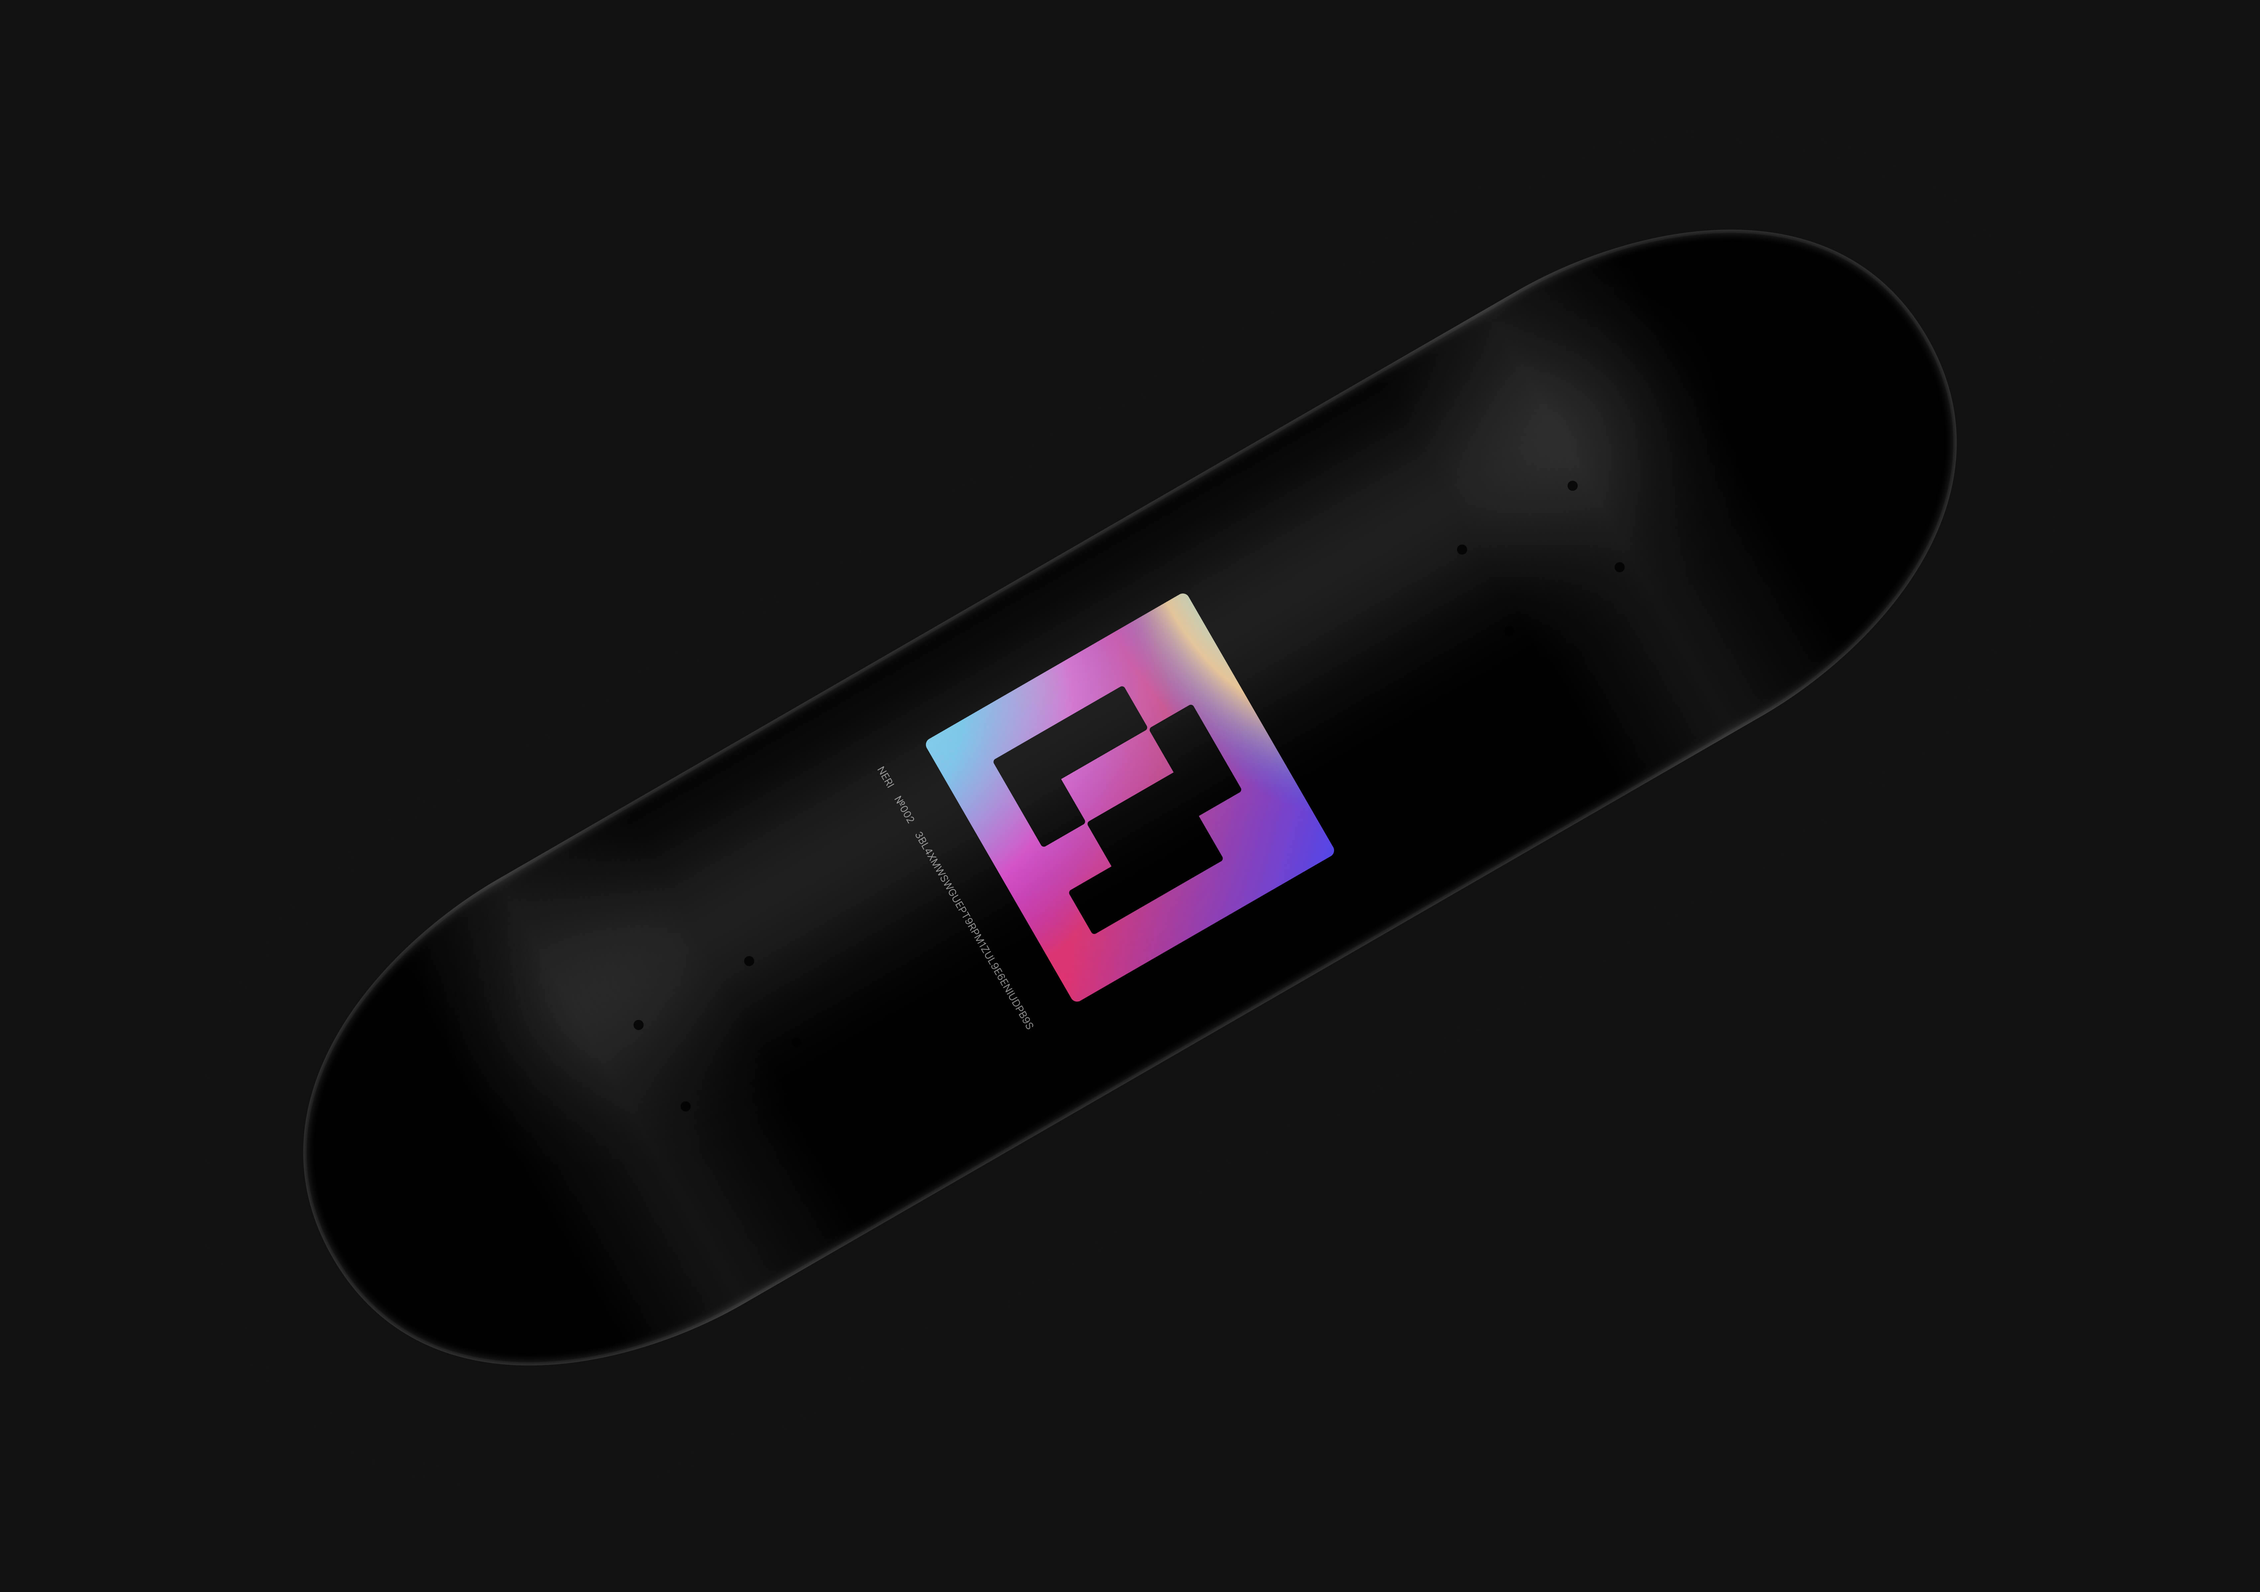
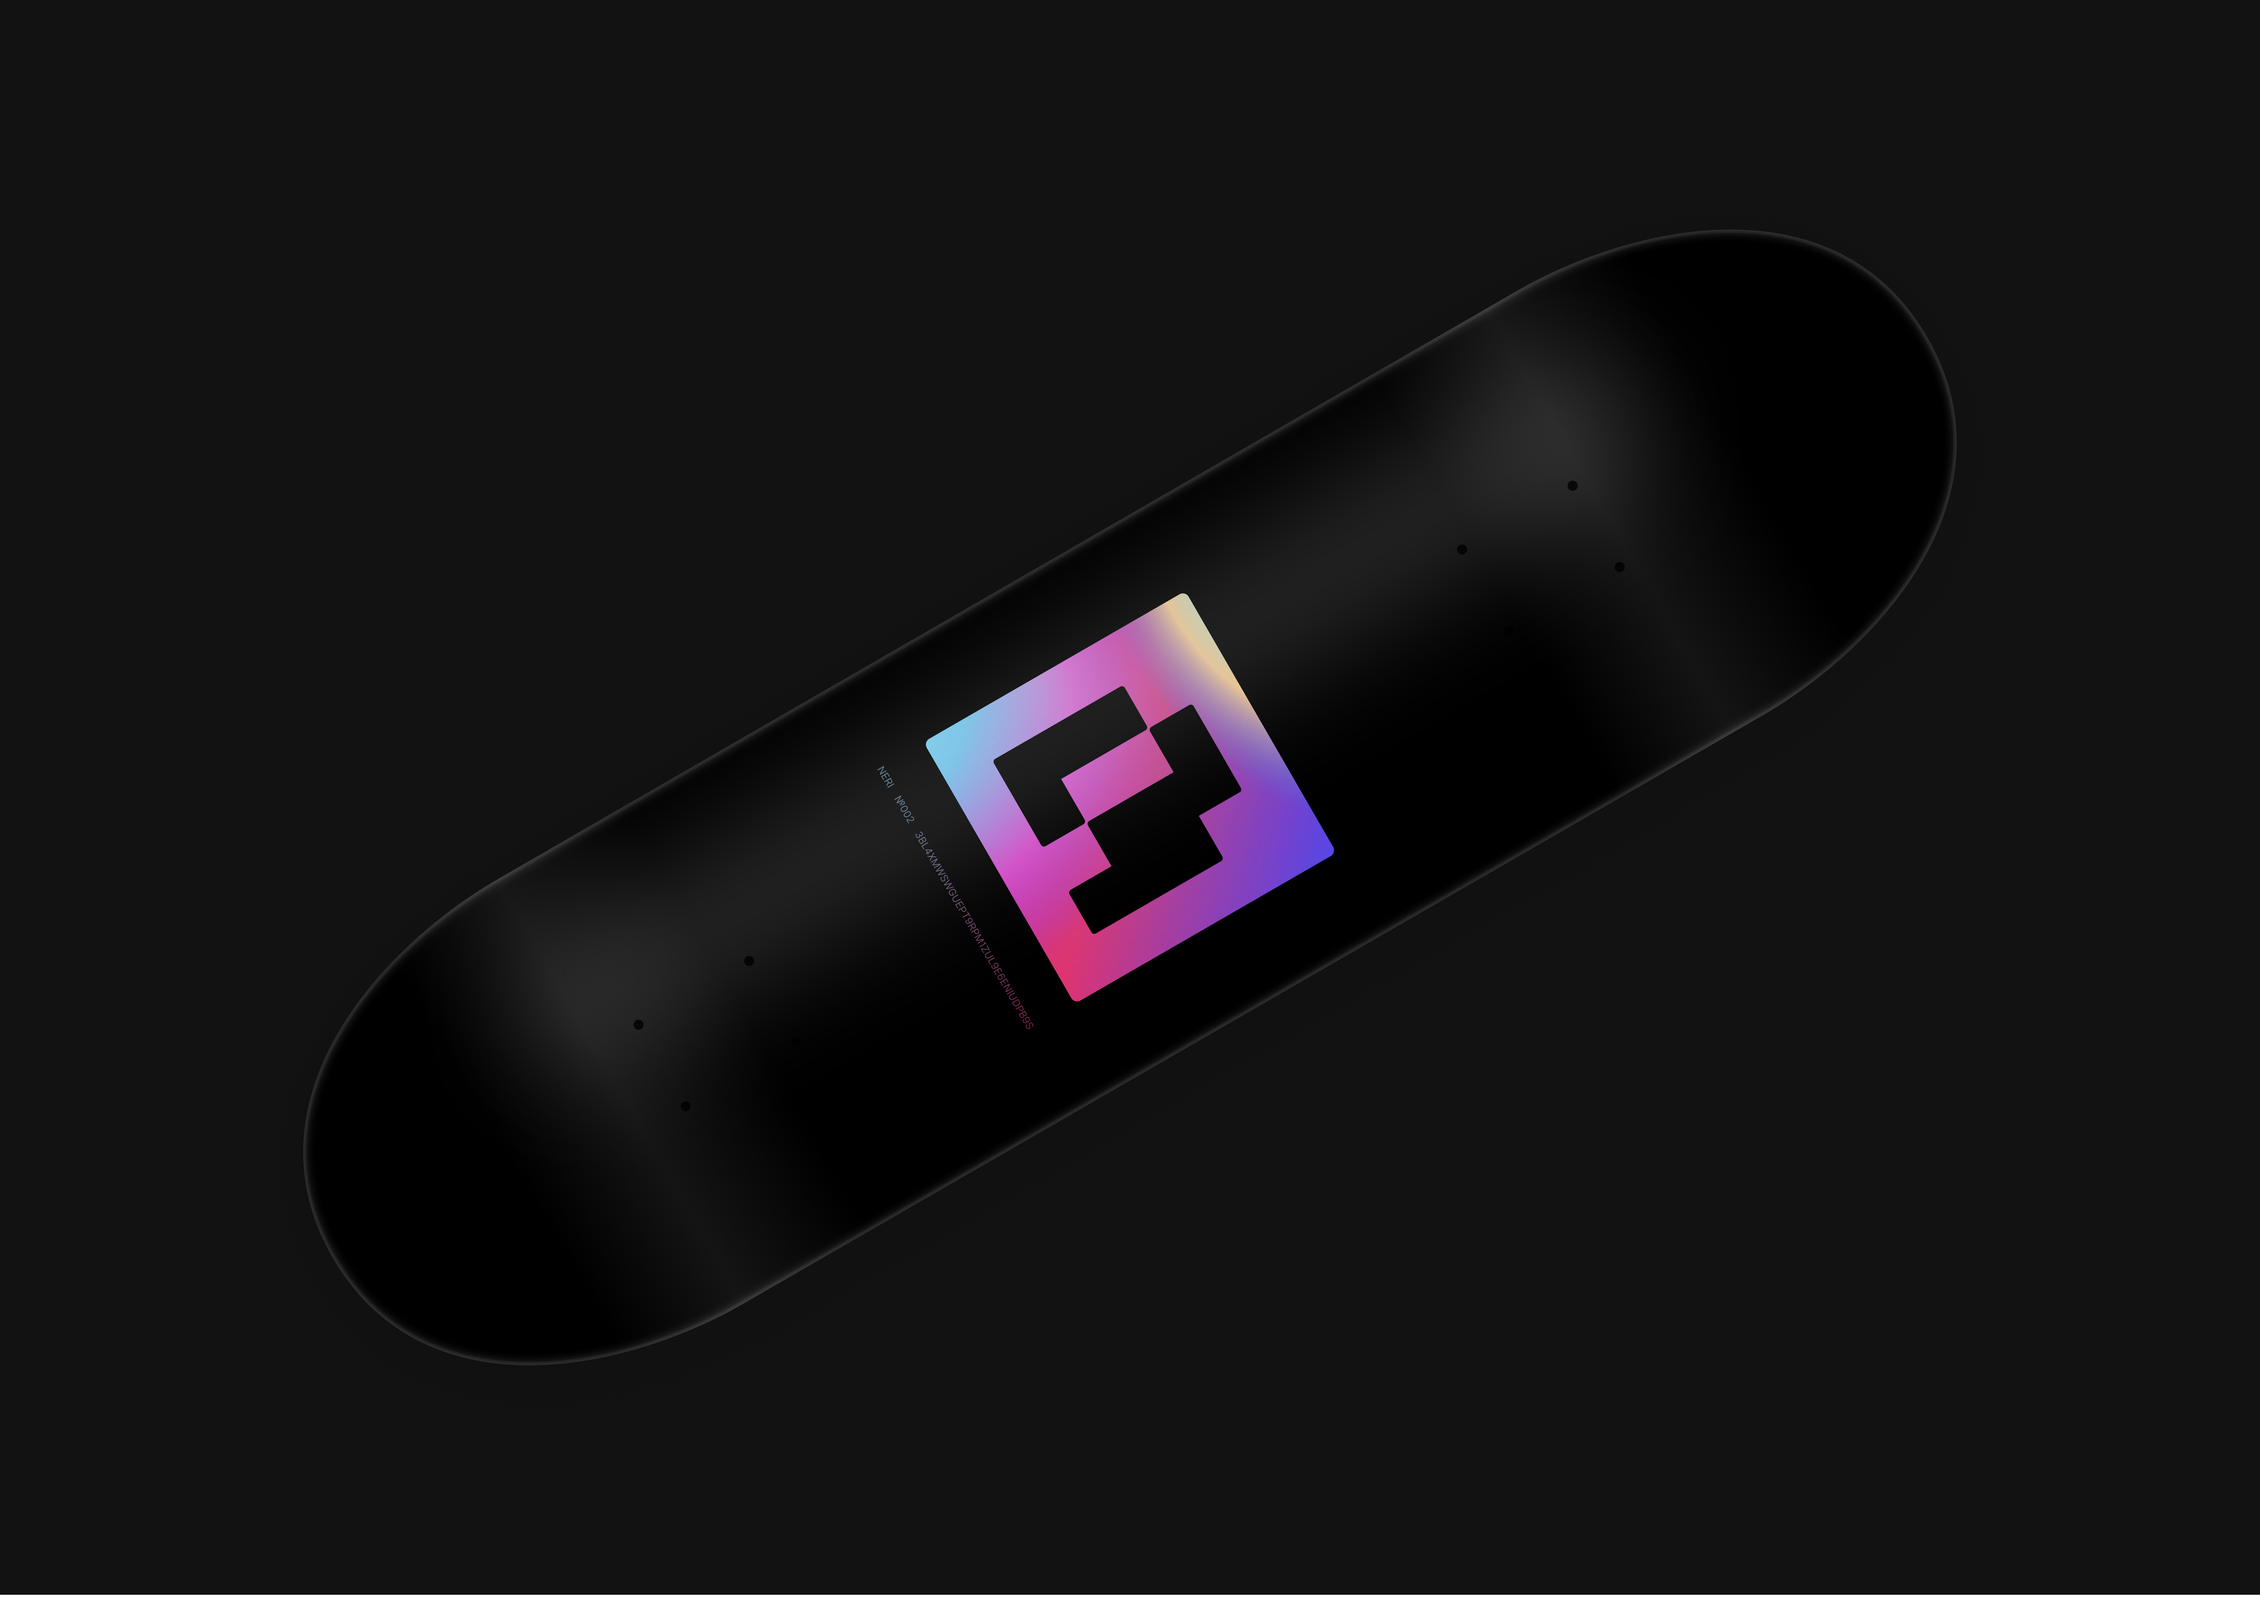
added new font

diff --git a/index.html b/index.html
@@ -8,12 +8,22 @@
     <link rel="stylesheet" href="css/animation.css">
     <title>NERI</title>
     <style>
+    @import url('https://rsms.me/inter/inter.css');
+
+    html {
+        font-family: 'Inter', sans-serif;
+    }
+    @supports (font-variation-settings: normal) {
+        html {
+            font-family: 'Inter var', sans-serif;
+        }
+    }
+    
     html, body {
         padding: 0;
         margin: 0;
     }
     body {
-        font-family: Arial, Helvetica, sans-serif;
         background-color: #121212;
         color: white;
     }
